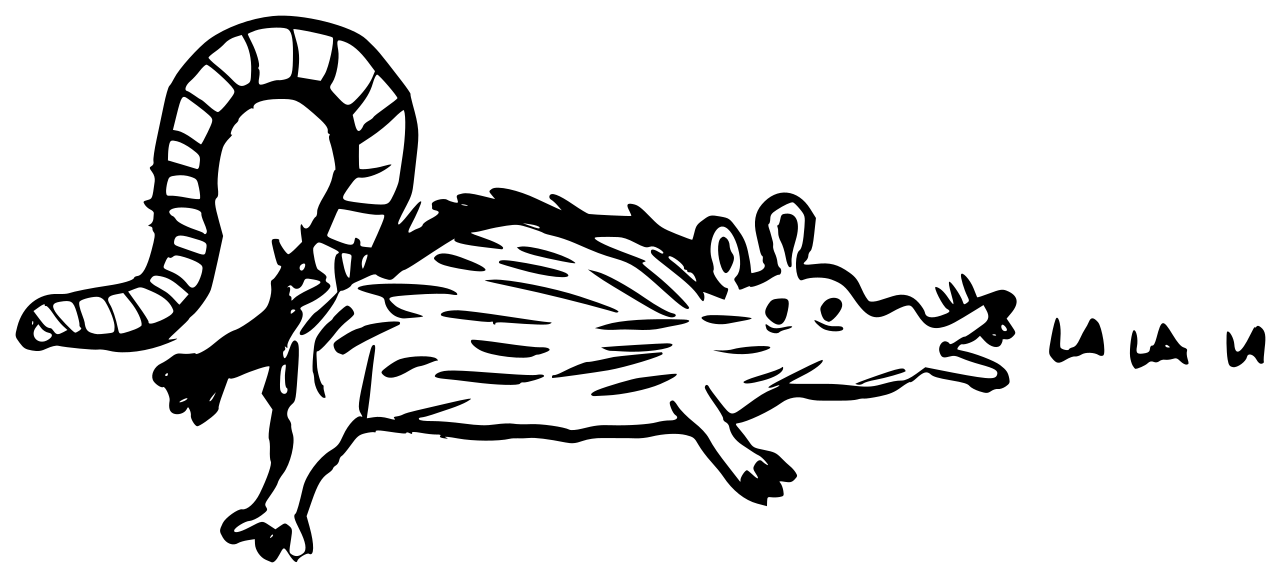
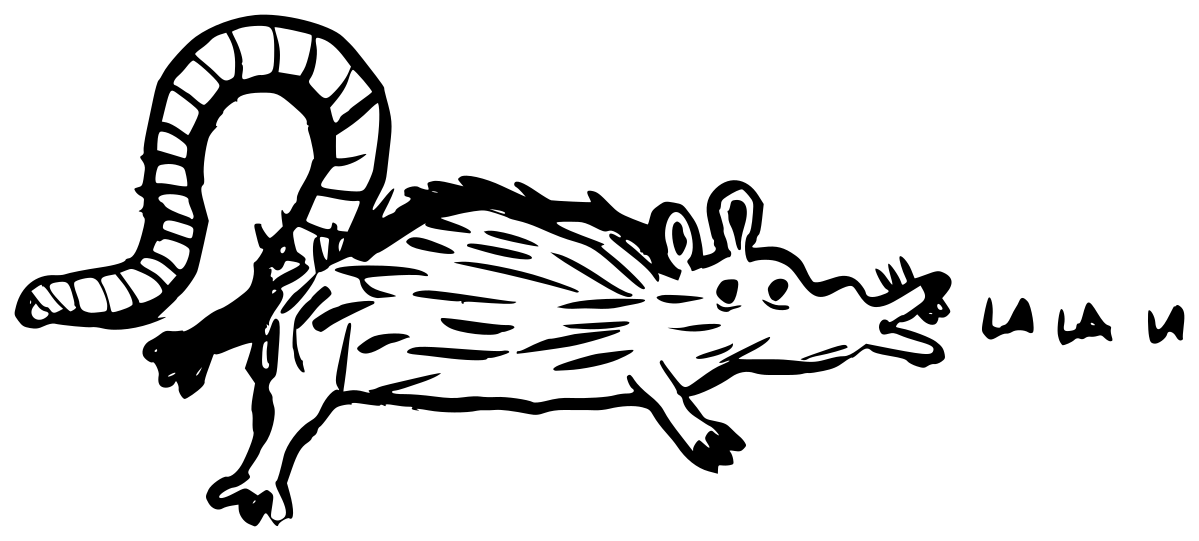
probando otro tipo de imagenes

diff --git a/public/index.php b/public/index.php
@@ -382,7 +382,7 @@
             <!-- Para evitar que el contenido se mueva al cargar la imagen puse "height: 180.47px;" al <p>. -->
             <p><!-- style="height: 180.47px;" -->
                 <a href="https://www.instagram.com/pepunto.reik" aria-label="Artista: @pepunto.reik">
-                    <img src="img/rat<?php echo $colors[$color_id]["hedaer_img_color"]; ?>.png" alt="Logotipo de la web, una rata cantando: la la la." width="400" height="180.47">
+                    <img src="img/rat<?php echo $colors[$color_id]["hedaer_img_color"]; ?>.webp" alt="Logotipo de la web, una rata cantando: la la la." width="400" height="180.47">
                 </a>
                 <!-- Licencia de la imagen -->
                 <script type="application/ld+json">
